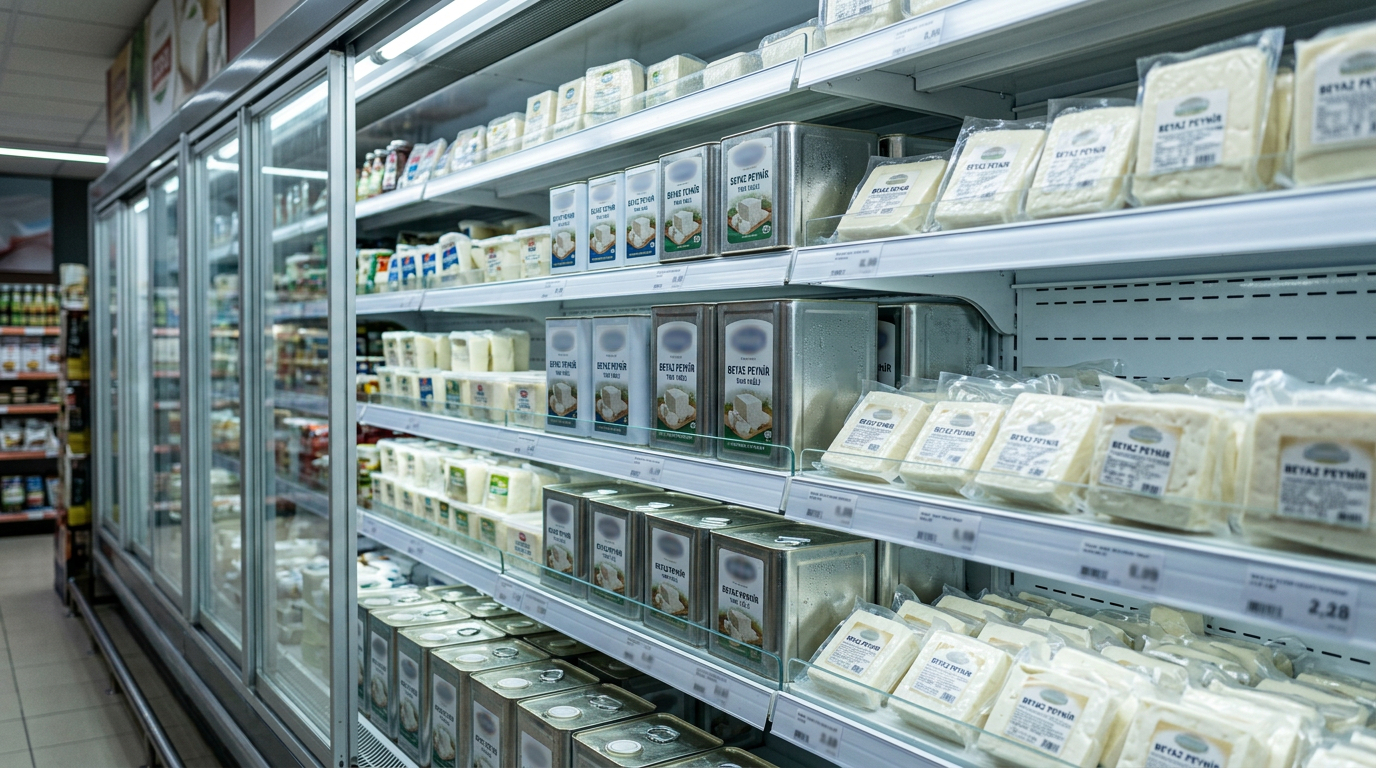
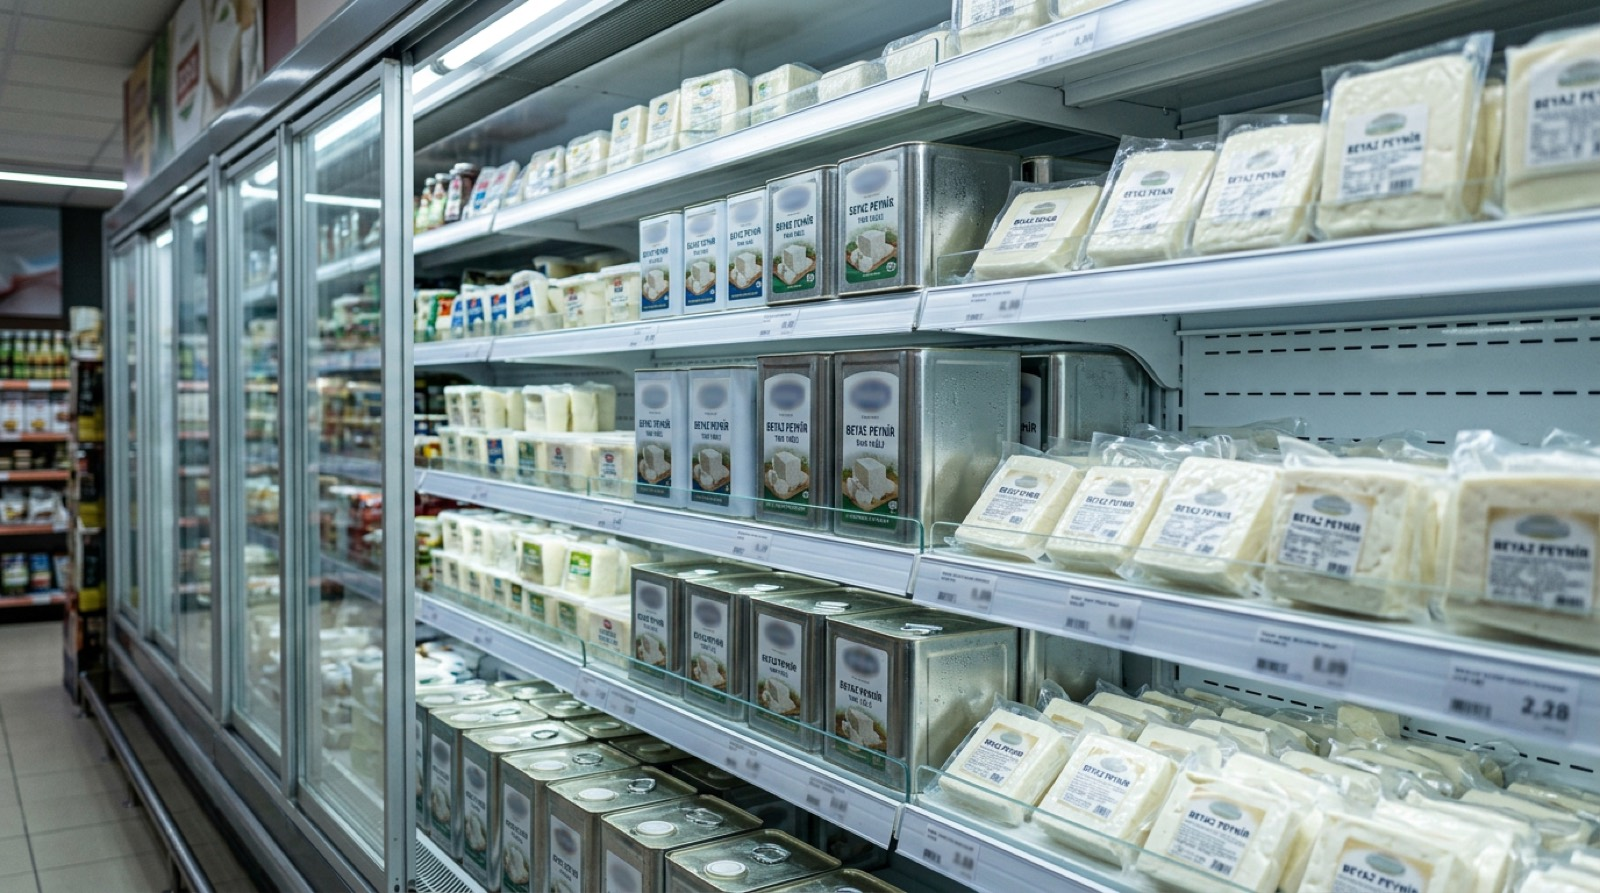
Speed up perceived load with route skeletons and lighter hero assets.
Add bayi/panel/store loading shells, compress dealer welcome images, prefer webp where available, and parallelize bayi home data fetches. Update CLAUDE.md with the session notes.

diff --git a/src/app/(dealer-portal)/bayi/page.tsx b/src/app/(dealer-portal)/bayi/page.tsx
@@ -10,9 +10,26 @@ import {
   resolveDealerProfile,
   resolveLifecycle,
 } from "@/features/dealer/dealerProfiles";
-import { DealerHomeModules } from "@/components/dealer/dealer-home-modules";
+import dynamic from "next/dynamic";
 import { getOrCreateCart } from "@/infra/db/cart";
 import { listPublishedAnnouncements } from "@/infra/db/campaigns";
+
+const DealerHomeModules = dynamic(
+  () =>
+    import("@/components/dealer/dealer-home-modules").then((m) => m.DealerHomeModules),
+  {
+    loading: () => (
+      <div className="space-y-5" aria-busy="true" aria-label="Yükleniyor">
+        <div className="h-[11.5rem] animate-pulse rounded-[1.35rem] bg-[var(--surface-3)] sm:h-[13rem]" />
+        <div className="grid gap-3 sm:grid-cols-3">
+          <div className="h-28 animate-pulse rounded-2xl bg-[var(--surface-3)]" />
+          <div className="h-28 animate-pulse rounded-2xl bg-[var(--surface-3)]" />
+          <div className="h-28 animate-pulse rounded-2xl bg-[var(--surface-3)]" />
+        </div>
+      </div>
+    ),
+  },
+);
 
 const TYPE_LABEL: Record<string, string> = {
   BAYI: "Market / Şarküteri",
@@ -61,13 +78,14 @@ export default async function BayiHomePage() {
   });
   const modules = composeHomeModules(profile, lifecycle);
   const balanceKurus = calculateBalance(dealer.ledgerEntries);
-  const announcements = await listPublishedAnnouncements();
-
-  const currentCart = await getOrCreateCart({
-    userId: impId && staff ? null : session.user.id,
-    dealerId,
-    createGuest: Boolean(impId && staff),
-  });
+  const [announcements, currentCart] = await Promise.all([
+    listPublishedAnnouncements(),
+    getOrCreateCart({
+      userId: impId && staff ? null : session.user.id,
+      dealerId,
+      createGuest: Boolean(impId && staff),
+    }),
+  ]);
 
   const lastSummary = lastCart
     ? lastCart.lines

diff --git a/src/app/(panel)/panel/loading.tsx b/src/app/(panel)/panel/loading.tsx
@@ -1,0 +1,27 @@
+import { Skeleton } from "@/components/ui/skeleton";
+
+/** Instant shell while panel layout/page data resolves. */
+export default function PanelLoading() {
+  return (
+    <div className="space-y-5 p-4 sm:p-6" aria-busy="true" aria-label="Yükleniyor">
+      <div className="flex flex-wrap items-end justify-between gap-3">
+        <div className="space-y-2">
+          <Skeleton className="h-7 w-40" />
+          <Skeleton className="h-4 w-64" />
+        </div>
+        <Skeleton className="h-9 w-28 rounded-full" />
+      </div>
+      <div className="grid gap-3 sm:grid-cols-2 xl:grid-cols-4">
+        <Skeleton className="h-24 rounded-2xl" />
+        <Skeleton className="h-24 rounded-2xl" />
+        <Skeleton className="h-24 rounded-2xl" />
+        <Skeleton className="h-24 rounded-2xl" />
+      </div>
+      <Skeleton className="h-72 w-full rounded-2xl" />
+      <div className="grid gap-4 lg:grid-cols-2">
+        <Skeleton className="h-56 rounded-2xl" />
+        <Skeleton className="h-56 rounded-2xl" />
+      </div>
+    </div>
+  );
+}

diff --git a/src/app/(dealer-portal)/bayi/loading.tsx b/src/app/(dealer-portal)/bayi/loading.tsx
@@ -1,0 +1,21 @@
+import { Skeleton } from "@/components/ui/skeleton";
+
+/** Instant shell while bayi layout/page data resolves. */
+export default function BayiLoading() {
+  return (
+    <div className="mx-auto max-w-6xl space-y-5 px-3 py-6 sm:px-5 sm:py-8" aria-busy="true" aria-label="Yükleniyor">
+      <Skeleton className="h-[11.5rem] w-full rounded-[1.35rem] sm:h-[13rem]" />
+      <div className="grid gap-3 sm:grid-cols-3">
+        <Skeleton className="h-28 rounded-2xl" />
+        <Skeleton className="h-28 rounded-2xl" />
+        <Skeleton className="h-28 rounded-2xl" />
+      </div>
+      <Skeleton className="h-40 w-full rounded-[1.35rem]" />
+      <div className="grid gap-4 sm:grid-cols-2 lg:grid-cols-3">
+        <Skeleton className="h-44 rounded-2xl" />
+        <Skeleton className="h-44 rounded-2xl" />
+        <Skeleton className="h-44 rounded-2xl" />
+      </div>
+    </div>
+  );
+}

diff --git a/src/app/(store)/page.tsx b/src/app/(store)/page.tsx
@@ -183,7 +183,7 @@ export default async function StoreHomePage() {
             note: "Bu hafta dilimli olgun kaşarı B2B kataloğa alıyoruz. Fiyat ve stok onaylı hesabınızda açılır.",
             href: "/urunler",
             ctaLabel: "Kataloğu aç",
-            imageUrl: "/scenes/promo-market-aisle.jpg",
+            imageUrl: "/scenes/promo-market-aisle.webp",
           },
           {
             id: "fallback-beyaz",
@@ -191,7 +191,7 @@ export default async function StoreHomePage() {
             note: "Taze teneke beyaz peynir partileri soğuk depoya indi. Lot ve SKT bayi panelinde görünür.",
             href: "/urunler",
             ctaLabel: "Stoku gör",
-            imageUrl: "/scenes/promo-beyaz-counter.jpg",
+            imageUrl: "/scenes/promo-beyaz-counter.webp",
           },
           ...published,
         ].slice(0, 2);

diff --git a/src/app/(store)/loading.tsx b/src/app/(store)/loading.tsx
@@ -1,0 +1,20 @@
+import { Skeleton } from "@/components/ui/skeleton";
+
+/** Storefront route fallback while the page shell streams in. */
+export default function StoreLoading() {
+  return (
+    <div className="min-h-[70vh]" aria-busy="true" aria-label="Yükleniyor">
+      <div className="relative h-[70vh] min-h-[28rem] w-full overflow-hidden bg-[var(--surface-3)]">
+        <Skeleton className="absolute inset-0 rounded-none" />
+      </div>
+      <div className="mx-auto max-w-6xl space-y-6 px-4 py-10 sm:px-6">
+        <Skeleton className="h-8 w-56" />
+        <div className="grid gap-4 sm:grid-cols-2 lg:grid-cols-3">
+          <Skeleton className="h-48 rounded-2xl" />
+          <Skeleton className="h-48 rounded-2xl" />
+          <Skeleton className="h-48 rounded-2xl" />
+        </div>
+      </div>
+    </div>
+  );
+}

diff --git a/src/content/images.ts b/src/content/images.ts
@@ -56,7 +56,7 @@ export type ImageAsset = {
 export const IMAGE_MANIFEST: Record<ImageSlotId, ImageAsset> = {
   hero: {
     id: "hero",
-    src: "/scenes/capabilities-2.jpg",
+    src: "/scenes/capabilities-2.webp",
     alt: "Ahşap masada beyaz peynir, yoğurt, kaşar, zeytin ve ekmek",
     topic: "Çözümler bandı: süt ürünleri still life",
     usedAt: "home.capabilities",

diff --git a/src/components/ui/logo.tsx b/src/components/ui/logo.tsx
@@ -53,9 +53,9 @@ export function BrandMark({
     <Image
       src="/brand/symbol.png"
       alt="Yetiş Grup"
-      width={2250}
-      height={2197}
-      style={{ width: size, height: size }}
+      width={size}
+      height={size}
+      sizes={`${size}px`}
       className={cn("object-contain", className)}
       priority
     />

diff --git a/CLAUDE.md b/CLAUDE.md
@@ -312,6 +312,14 @@ Zod ile `lib/env.ts` içinde doğrulanır. Örnek gruplar:
 - Kaynak kod, commit, domain isimleri: **English**
 - Kullanıcıya görünen metin: **Türkçe** (`lib/i18n`)
 
+---
+
+## Son oturum notları (2026-08-23)
+
+- Bayi + panel UX: floating shell, thin AppIcon, bildirim sheet, dark mode, home modül kartları.
+- Performans: `/bayi/loading.tsx` ve `/panel/loading.tsx` eklendi; büyük sahne JPG’leri sıkıştırıldı (~1MB → ~200–350KB); mümkün yerde `.webp`; kullanılmayan `_siparis/_sevkiyat` PNG silindi.
+- Claude proje kuralları bu dosyada (`CLAUDE.md`). Yerel izinler `.claude/` altında kalır (gitignore).
+
 <!-- BEGIN:nextjs-agent-rules -->
 
 # This is NOT the Next.js you know
